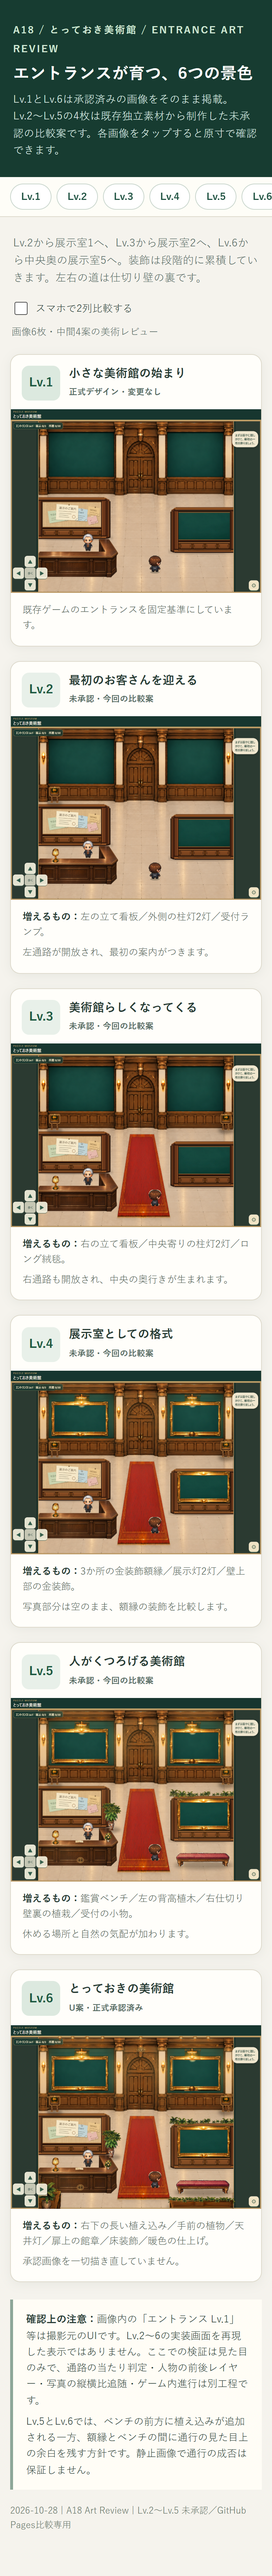
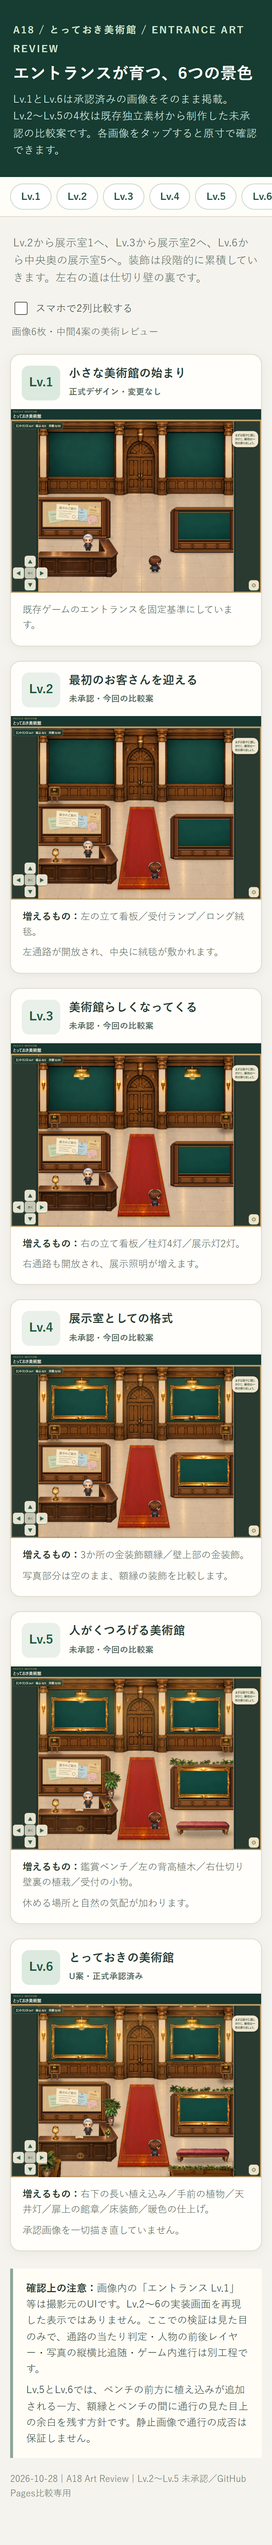
feat(a18): revise entrance growth distribution for levels 2-5

Changed region(s): [[0.0307, 0.0, 1.0, 0.9989], [0.92, 0.5931, 0.9507, 0.6243], [0.0613, 0.9676, 0.092, 0.9989]]

diff --git a/entrance-lv2-to-lv5-review-20261028/index.html b/entrance-lv2-to-lv5-review-20261028/index.html
@@ -59,14 +59,14 @@ footer{font-size:.77rem;color:#687569;margin-top:20px}
 <a class="artlink" href="../entrance-lv6-review-20261028/lv1-baseline.png" target="_blank" rel="noopener"><img src="../entrance-lv6-review-20261028/lv1-baseline.png" width="1200" height="880" alt="承認済みLv1エントランス、装飾の少ない館内" fetchpriority="high"></a>
 <div class="description"><p>既存ゲームのエントランスを固定基準にしています。</p></div></article>
 <article class="panel" id="lv2"><div class="top"><div class="level">Lv.2</div><div><h2>最初のお客さんを迎える</h2><span class="stage">未承認・今回の比較案</span></div></div>
-<a class="artlink" href="entrance-lv2.png" target="_blank" rel="noopener"><img src="entrance-lv2.png" width="1200" height="880" loading="lazy" alt="Lv2、左の自立看板、外側の柱灯2灯、受付ランプ"></a>
-<div class="description"><p><strong>増えるもの：</strong>左の立て看板／外側の柱灯2灯／受付ランプ。</p><p>左通路が開放され、最初の案内がつきます。</p></div></article>
+<a class="artlink" href="entrance-lv2.png" target="_blank" rel="noopener"><img src="entrance-lv2.png" width="1200" height="880" loading="lazy" alt="Lv2、左の自立看板、受付ランプ、ロング絨毯"></a>
+<div class="description"><p><strong>増えるもの：</strong>左の立て看板／受付ランプ／ロング絨毯。</p><p>左通路が開放され、中央に絨毯が敷かれます。</p></div></article>
 <article class="panel" id="lv3"><div class="top"><div class="level">Lv.3</div><div><h2>美術館らしくなってくる</h2><span class="stage">未承認・今回の比較案</span></div></div>
-<a class="artlink" href="entrance-lv3.png" target="_blank" rel="noopener"><img src="entrance-lv3.png" width="1200" height="880" loading="lazy" alt="Lv3、左右の自立看板と4灯の柱灯、長い中央絨毯"></a>
-<div class="description"><p><strong>増えるもの：</strong>右の立て看板／中央寄りの柱灯2灯／ロング絨毯。</p><p>右通路も開放され、中央の奥行きが生まれます。</p></div></article>
+<a class="artlink" href="entrance-lv3.png" target="_blank" rel="noopener"><img src="entrance-lv3.png" width="1200" height="880" loading="lazy" alt="Lv3、左右の自立看板と4灯の柱灯、展示灯2灯"></a>
+<div class="description"><p><strong>増えるもの：</strong>右の立て看板／柱灯4灯／展示灯2灯。</p><p>右通路も開放され、展示照明が増えます。</p></div></article>
 <article class="panel" id="lv4"><div class="top"><div class="level">Lv.4</div><div><h2>展示室としての格式</h2><span class="stage">未承認・今回の比較案</span></div></div>
-<a class="artlink" href="entrance-lv4.png" target="_blank" rel="noopener"><img src="entrance-lv4.png" width="1200" height="880" loading="lazy" alt="Lv4、3か所の金装飾額縁と展示灯、金の梁飾り"></a>
-<div class="description"><p><strong>増えるもの：</strong>3か所の金装飾額縁／展示灯2灯／壁上部の金装飾。</p><p>写真部分は空のまま、額縁の装飾を比較します。</p></div></article>
+<a class="artlink" href="entrance-lv4.png" target="_blank" rel="noopener"><img src="entrance-lv4.png" width="1200" height="880" loading="lazy" alt="Lv4、3か所の金装飾額縁と金の梁飾り"></a>
+<div class="description"><p><strong>増えるもの：</strong>3か所の金装飾額縁／壁上部の金装飾。</p><p>写真部分は空のまま、額縁の装飾を比較します。</p></div></article>
 <article class="panel" id="lv5"><div class="top"><div class="level">Lv.5</div><div><h2>人がくつろげる美術館</h2><span class="stage">未承認・今回の比較案</span></div></div>
 <a class="artlink" href="entrance-lv5.png" target="_blank" rel="noopener"><img src="entrance-lv5.png" width="1200" height="880" loading="lazy" alt="Lv5、長い赤座面の木製ベンチ、背の高い左の植木、右仕切り壁の裏に草、受付小物"></a>
 <div class="description"><p><strong>増えるもの：</strong>鑑賞ベンチ／左の背高植木／右仕切り壁裏の植栽／受付の小物。</p><p>休める場所と自然の気配が加わります。</p></div></article>

diff --git a/entrance-lv2-to-lv5-review-20261028/build_levels.py b/entrance-lv2-to-lv5-review-20261028/build_levels.py
@@ -35,8 +35,7 @@ layout=lush['ns']
 nop=layout['namespace']
 
 def add_pillars(img,level):
-    lights=[('outer_left',0),('outer_right',518)]
-    if level>=3: lights += [('outer_left',211),('outer_right',335)]
+    lights=[('outer_left',0),('outer_right',518),('outer_left',211),('outer_right',335)]
     for side,x in lights:
         for layer in ('emission','body'):
             obj=placement['load']('lighting-additional-sconces-v01',f'fixture_{side}_{layer}.png')
@@ -73,20 +72,23 @@ def add_long_carpet(img):
     mask=actor.crop(actor_box).getchannel('A').resize((60,79),Image.Resampling.LANCZOS)
     img.paste(BASE.crop((661,701,721,780)),(661,701),mask)
 
-def add_gold_and_exhibition_lights(img):
+def add_gold_frames_and_trim(img):
     src='entrance-frames-independent-20261026'
     l=extras['fetch'](src,'frame_left_original_gold.png')
     r=extras['fetch'](src,'frame_right_original_gold.png')
     for art,rect in ((l,(36,55,159,98)),(r,(367,55,145,98)),(l,(389,251,148,89))):
         _,_,w,h=rect
         extras['paste'](img,extras['gold'](art,(w,h)),rect[0],rect[1])
+    for direction,x,w in [('west',45,160),('east',351,154)]:
+        trim=fg['source']('entrance-wall-trim-final-20261025',f'entrance_wall_trim_ceiling_{direction}.png')
+        fg['place'](img,trim,x,23,w,6,.8)
+
+
+def add_exhibition_lights(img):
     for name,x,y,w,h in [('entrance_picture_light_west_photo_safe.png',98,33,45,39),
                           ('entrance_picture_light_east_photo_safe.png',408,33,47,39)]:
         lamp=extras['fetch']('entrance-picture-lights-final-20261025',name)
         extras['paste'](img,lamp,x,y,w,h,.94)
-    for direction,x,w in [('west',45,160),('east',351,154)]:
-        trim=fg['source']('entrance-wall-trim-final-20261025',f'entrance_wall_trim_ceiling_{direction}.png')
-        fg['place'](img,trim,x,23,w,6,.8)
 
 def add_lounge_and_counter(img):
     layout['bench'](img,257) # Q-approved image dimensions and feet/armrests
@@ -99,19 +101,18 @@ def add_lounge_and_counter(img):
 image_records={}
 for level in range(2,6):
     img=BASE.copy()
-    add_pillars(img,level)
     add_sign(img,'left')
     add_reception_lamp(img)
+    add_long_carpet(img)
     if level>=3:
         add_sign(img,'right')
-        add_long_carpet(img)
+        add_pillars(img,level)
+        add_exhibition_lights(img)
     if level>=4:
-        add_gold_and_exhibition_lights(img)
+        add_gold_frames_and_trim(img)
     if level>=5:
         add_lounge_and_counter(img)
-    # Avoid unframed teal wall rectangles in Lv2/3: the historic warm-light
-    # mask was tailored to the golden framed wall, which begins only in Lv4.
-    # Existing independent pillar bulbs/desk lamp already glow at Lv2/3.
+    # Global warm reflection only where golden frames already exist.
     if level>=4:
         img=nop['light_environment'](img,{4:.60,5:.89}[level])
     target=HERE/f'entrance-lv{level}.png'
@@ -134,9 +135,9 @@ manifest={
  'render_method':'source independent PNG compositing + previously verified screenshot coordinates; baseline and approved images immutable',
  'levels':image_records,
  'cumulative':True,
- 'growth':{'2':['standing sign left','outer pillar lights 2','reception lamp'],
-           '3':['standing sign right','inner pillar lights 2','long red carpet'],
-           '4':['three golden display frame overlays','picture lights 2','wall gold top trim'],
+ 'growth':{'2':['standing sign left','reception lamp','long red carpet'],
+           '3':['standing sign right','pillar lights 4','picture lights 2'],
+           '4':['three golden display frame overlays','wall gold top trim'],
            '5':['257px cushioned bench','tall left tree','rear-right partition foliage','reception accessories'],
            '6':['approved U image only: full right-front planting, foreground plants, ceiling lights, crest, floor accents, final reflectance']},
  'not_validated':['collisions','door transitions','gallery room naming','picture frames portrait/square runtime','live iPhone Safari'],

diff --git a/entrance-lv2-to-lv5-review-20261028/patch_distribution.py b/entrance-lv2-to-lv5-review-20261028/patch_distribution.py
@@ -1,0 +1,26 @@
+from pathlib import Path
+d=Path(r'C:\Users\User\source\repos\a18-art-previews-publish\entrance-lv2-to-lv5-review-20261028')
+p=d/'build_levels.py'
+s=p.read_text(encoding='utf8')
+s=s.replace("    lights=[('outer_left',0),('outer_right',518)]\n    if level>=3: lights += [('outer_left',211),('outer_right',335)]","    lights=[('outer_left',0),('outer_right',518),('outer_left',211),('outer_right',335)]")
+s=s.replace("    add_pillars(img,level)\n    add_sign(img,'left')\n    add_reception_lamp(img)\n    if level>=3:\n        add_sign(img,'right')\n        add_long_carpet(img)\n    if level>=4:\n        add_gold_and_exhibition_lights(img)","    add_sign(img,'left')\n    add_reception_lamp(img)\n    add_long_carpet(img)\n    if level>=3:\n        add_sign(img,'right')\n        add_pillars(img,level)\n        add_exhibition_lights(img)\n    if level>=4:\n        add_gold_frames_and_trim(img)")
+start=s.index('def add_gold_and_exhibition_lights(img):')
+end=s.index('\ndef add_lounge_and_counter(img):',start)
+block=s[start:end]
+a=block.index('    for name,x,y,w,h in')
+s=s[:start]+block[:a].replace('def add_gold_and_exhibition_lights','def add_gold_frames_and_trim')+block[block.index('    for direction,x,w in'):]+ '\n\ndef add_exhibition_lights(img):\n'+block[a:block.index('    for direction,x,w in')]+s[end:]
+s=s.replace("    # Avoid unframed teal wall rectangles in Lv2/3: the historic warm-light\n    # mask was tailored to the golden framed wall, which begins only in Lv4.\n    # Existing independent pillar bulbs/desk lamp already glow at Lv2/3.","    # Global warm reflection only where golden frames already exist.")
+s=s.replace("'2':['standing sign left','outer pillar lights 2','reception lamp'],\n           '3':['standing sign right','inner pillar lights 2','long red carpet'],\n           '4':['three golden display frame overlays','picture lights 2','wall gold top trim']","'2':['standing sign left','reception lamp','long red carpet'],\n           '3':['standing sign right','pillar lights 4','picture lights 2'],\n           '4':['three golden display frame overlays','wall gold top trim']")
+p.write_text(s,encoding='utf8')
+html=d/'index.html'
+h=html.read_text(encoding='utf8')
+h=h.replace('左の立て看板／外側の柱灯2灯／受付ランプ。','左の立て看板／受付ランプ／ロング絨毯。')
+h=h.replace('右の立て看板／中央寄りの柱灯2灯／ロング絨毯。','右の立て看板／柱灯4灯／展示灯2灯。')
+h=h.replace('3か所の金装飾額縁／展示灯2灯／壁上部の金装飾。','3か所の金装飾額縁／壁上部の金装飾。')
+h=h.replace('Lv2、左の自立看板、外側の柱灯2灯、受付ランプ','Lv2、左の自立看板、受付ランプ、ロング絨毯')
+h=h.replace('Lv3、左右の自立看板と4灯の柱灯、長い中央絨毯','Lv3、左右の自立看板と4灯の柱灯、展示灯2灯')
+h=h.replace('Lv4、3か所の金装飾額縁と展示灯、金の梁飾り','Lv4、3か所の金装飾額縁と金の梁飾り')
+h=h.replace('左通路が開放され、最初の案内がつきます。','左通路が開放され、中央に絨毯が敷かれます。')
+h=h.replace('右通路も開放され、中央の奥行きが生まれます。','右通路も開放され、展示照明が増えます。')
+html.write_text(h,encoding='utf8')
+print('PATCHED_NEW_DISTRIBUTION')

diff --git a/entrance-lv2-to-lv5-review-20261028/qa_levels.py b/entrance-lv2-to-lv5-review-20261028/qa_levels.py
@@ -28,7 +28,8 @@ areas={'left_sign':(176,332,250,421),'right_sign':(995,330,1068,422),
        'front_plant':(760,818,1067,879)}
 assert count(rgb[1],rgb[2],areas['left_sign'])>400
 assert count(rgb[2],rgb[3],areas['right_sign'])>400
-assert count(rgb[2],rgb[3],areas['carpet_center'])>1000
+assert count(rgb[1],rgb[2],areas['carpet_center'])>1000
+assert count(rgb[2],rgb[3],areas['carpet_center'])==0
 assert count(rgb[3],rgb[4],areas['gold_left'])>1000
 assert count(rgb[4],rgb[5],areas['bench'])>1000
 assert count(rgb[4],rgb[5],areas['left_tree'])>1000
@@ -39,7 +40,7 @@ for n in range(2,6):
     assert np.array_equal(rgb[n][:,0:130,:],rgb[1][:,0:130,:]),'E_LEFT_BORDER_CHANGED'
     assert np.array_equal(rgb[n][:,1080:,:],rgb[1][:,1080:,:]),'E_RIGHT_BORDER_CHANGED'
 # Light protection of unframed teal panels: no false block-shaped glow is applied in Lv2/3.
-for n in [2,3]:
+for n in [2]:
     assert np.array_equal(rgb[n][169:306,216:455],rgb[1][169:306,216:455])
     assert np.array_equal(rgb[n][169:306,785:992],rgb[1][169:306,785:992])
 # Contact image for QA (six source images, originals loaded read-only).

diff --git a/entrance-lv2-to-lv5-review-20261028/build_layer_assets.py b/entrance-lv2-to-lv5-review-20261028/build_layer_assets.py
@@ -24,10 +24,16 @@ def counter_objects(im):
     f['place'](im,f['clean_flower'](),181,337,27,42)
     f['draw_ledger'](im)
     f['reception_medallion'](im)
-def gold_frames_and_picture_lights(im):ns['add_gold_and_exhibition_lights'](im)
+def gold_frames_and_picture_lights(im):ns['add_gold_frames_and_trim'](im)
+def picture_lights(im):ns['add_exhibition_lights'](im)
+def carpet(im):ns['add_long_carpet'](im)
+def pillars(im):ns['add_pillars'](im,3)
 steps={
     'lv2-standing-sign-left':(2,left_sign),
     'lv2-reception-lamp':(2,reception_lamp),
+    'lv2-carpet':(2,carpet),
+    'lv3-pillar-lights':(3,pillars),
+    'lv3-picture-lights':(3,picture_lights),
     'lv3-standing-sign-right':(3,right_sign),
     'lv4-gold-frames-picture-lights-and-trim':(4,gold_frames_and_picture_lights),
     'lv5-bench':(5,bench),

diff --git a/entrance-lv2-to-lv5-review-20261028/NEW_DISTRIBUTION_20261028.md b/entrance-lv2-to-lv5-review-20261028/NEW_DISTRIBUTION_20261028.md
@@ -1,0 +1,14 @@
+# 新配分（ユーザー指定）
+
+- Lv.1: 承認済み、変更なし。
+- Lv.2: 左案内看板、受付ランプ、ロング絨毯。
+- Lv.3: 右案内看板、柱灯4灯、展示灯2灯。
+- Lv.4: 金装飾額縁3か所、壁の金装飾。
+- Lv.5: 赤座面の鑑賞ベンチ、背の高い左植木、右仕切り壁裏の緑、受付小物。
+- Lv.6: 承認済みU案、変更なし。
+
+## 額縁シルバー案
+ユーザーがシルバー額縁の追加を検討中。今回は比較案の既存金枠を維持し、シルバーへの変更は未承認・未実装。Lv.6承認画像の金枠は固定。既存独立素材と実画像で比較してから配置と色を決定する。
+
+## QA
+今回の変更は静止画と比較ページの更新のみ。通路・深度・当たり判定の動作確認ではない。Lv.2〜5は未承認。

diff --git a/entrance-lv2-to-lv5-review-20261028/REVIEW_NOTES_20261028.md b/entrance-lv2-to-lv5-review-20261028/REVIEW_NOTES_20261028.md
@@ -1,4 +1,6 @@
-# A18 エントランス Lv.2〜Lv.5 美術比較 2026-10-28
+# A18 エントランス Lv.2〜Lv.5 美術比較 初回履歴 2026-10-28
+
+**注意：以下は初回配分の履歴。現行の配分は NEW_DISTRIBUTION_20261028.md と preview-manifest.json を正とする。**
 
 ## 承認境界
 Lv.1: 前回の正式ゲーム写真の原本をそのまま表示。Lv.6: 正式承認済みU案をそのまま表示。双方のSHA-256は承認台帳と一致。
